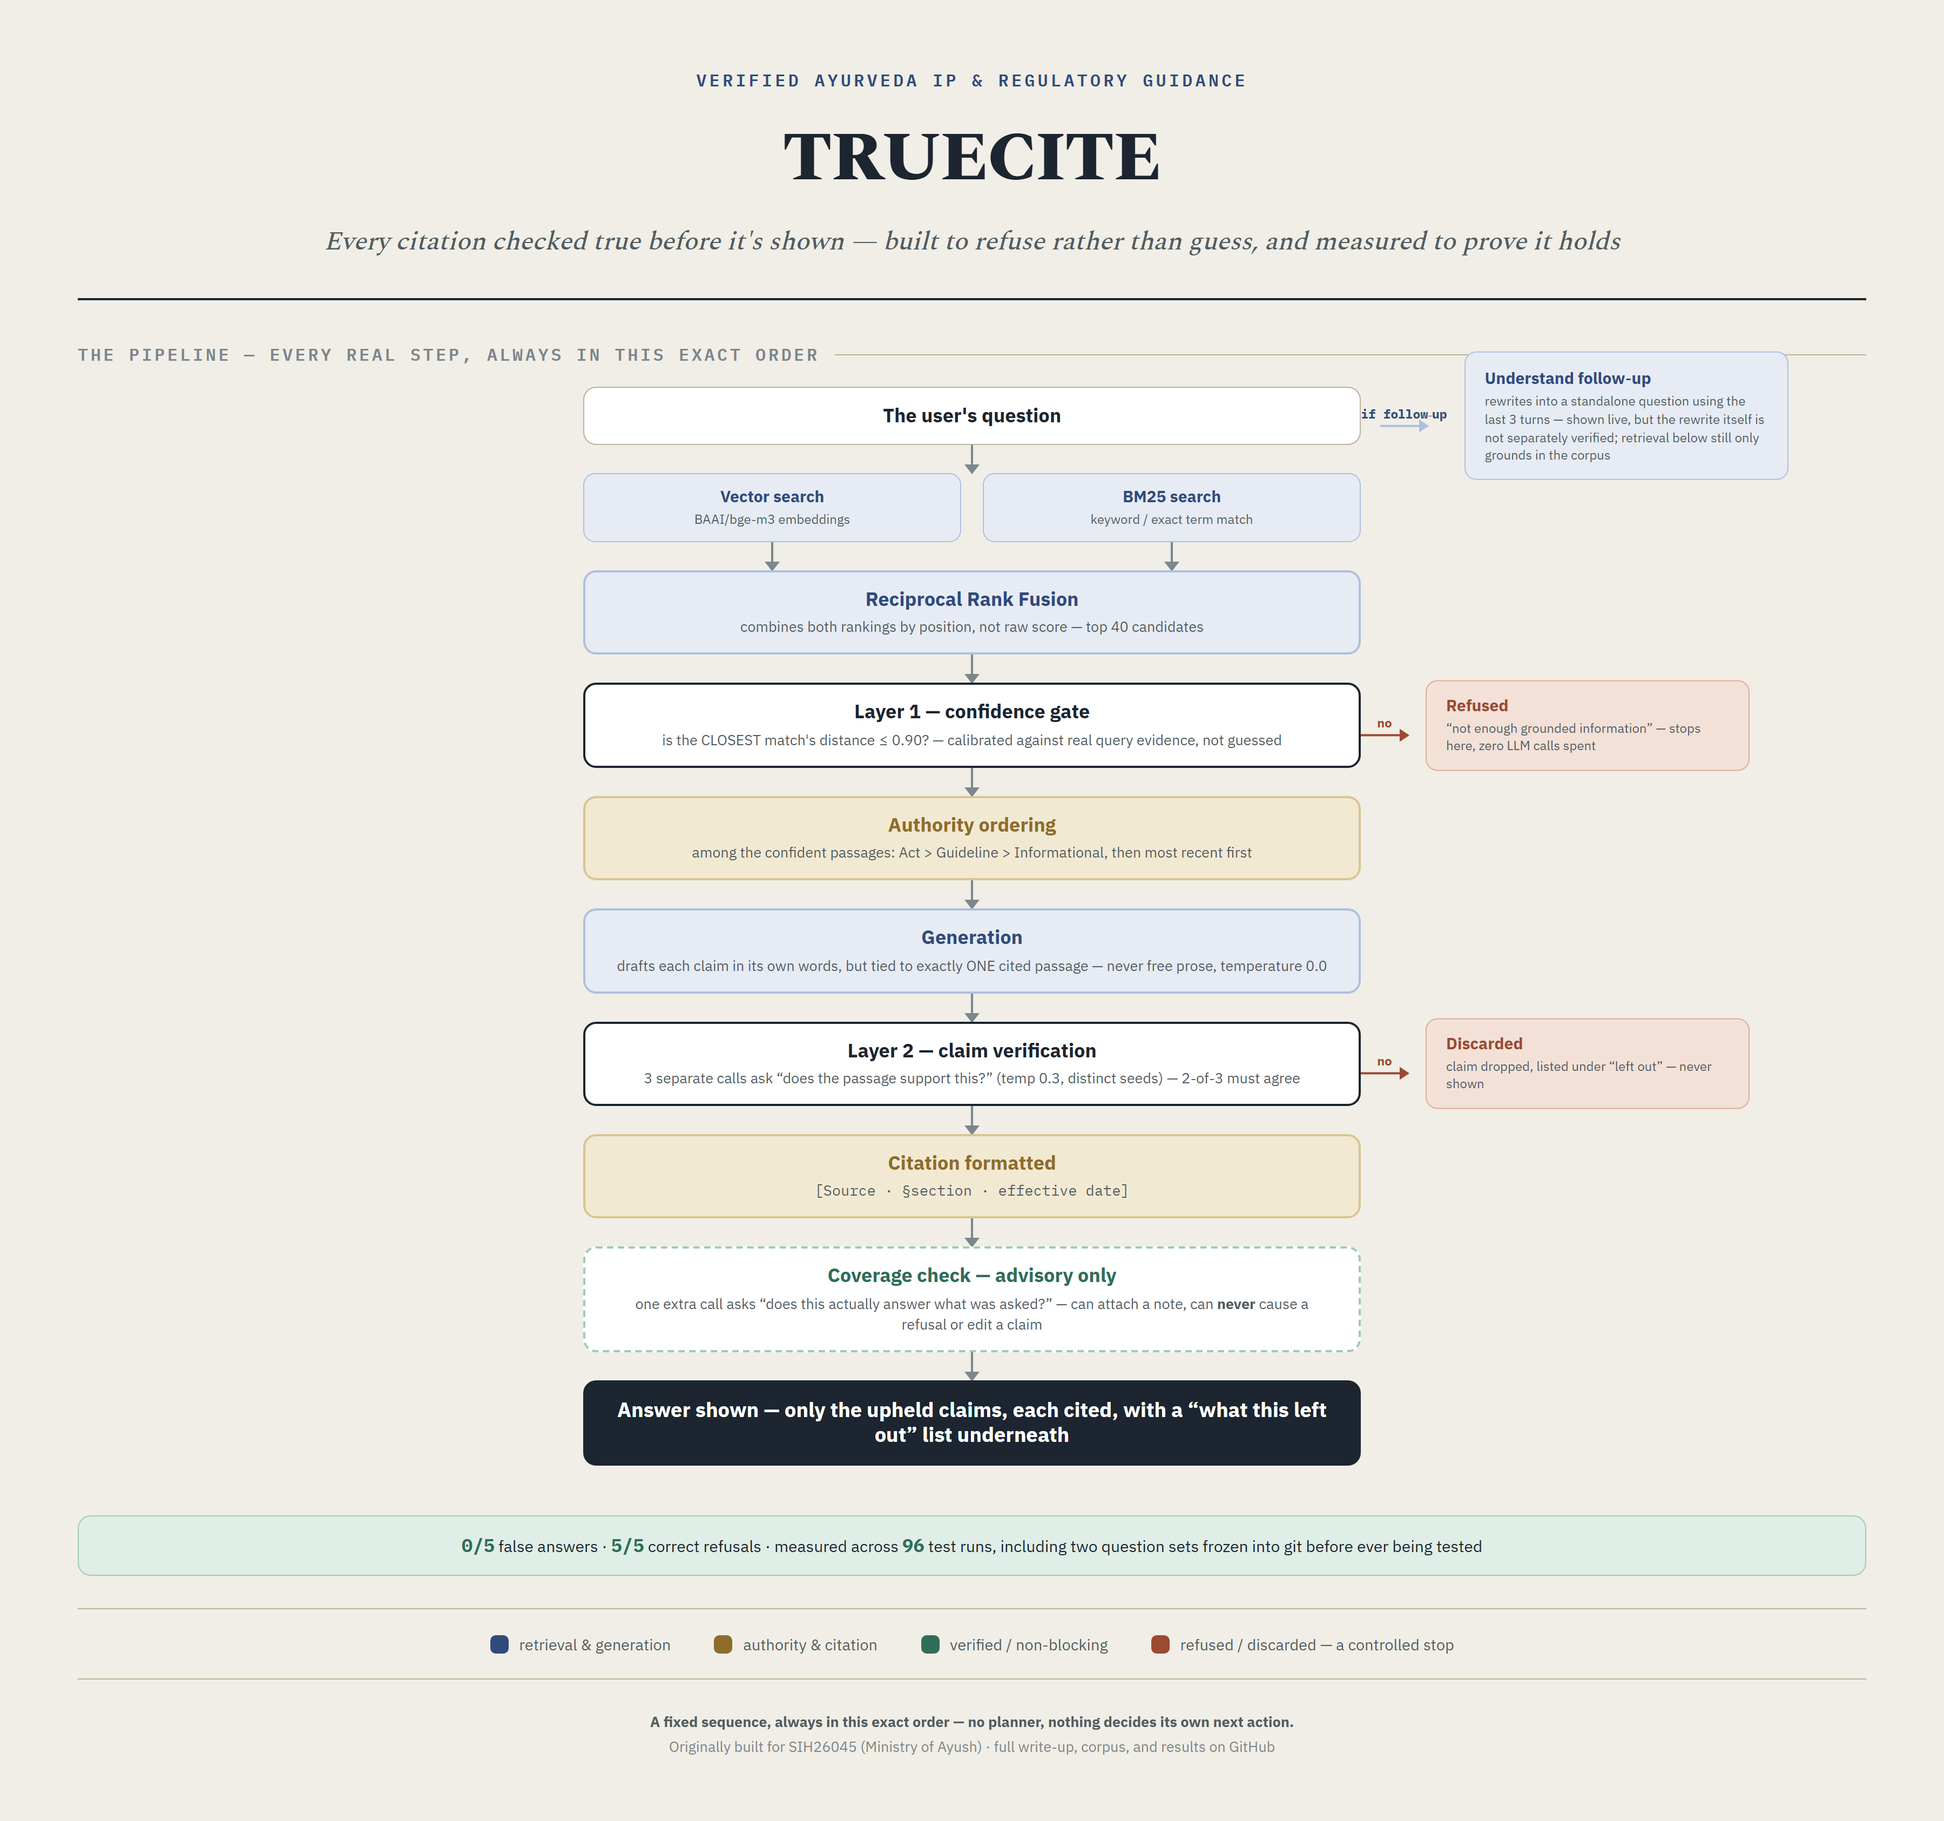
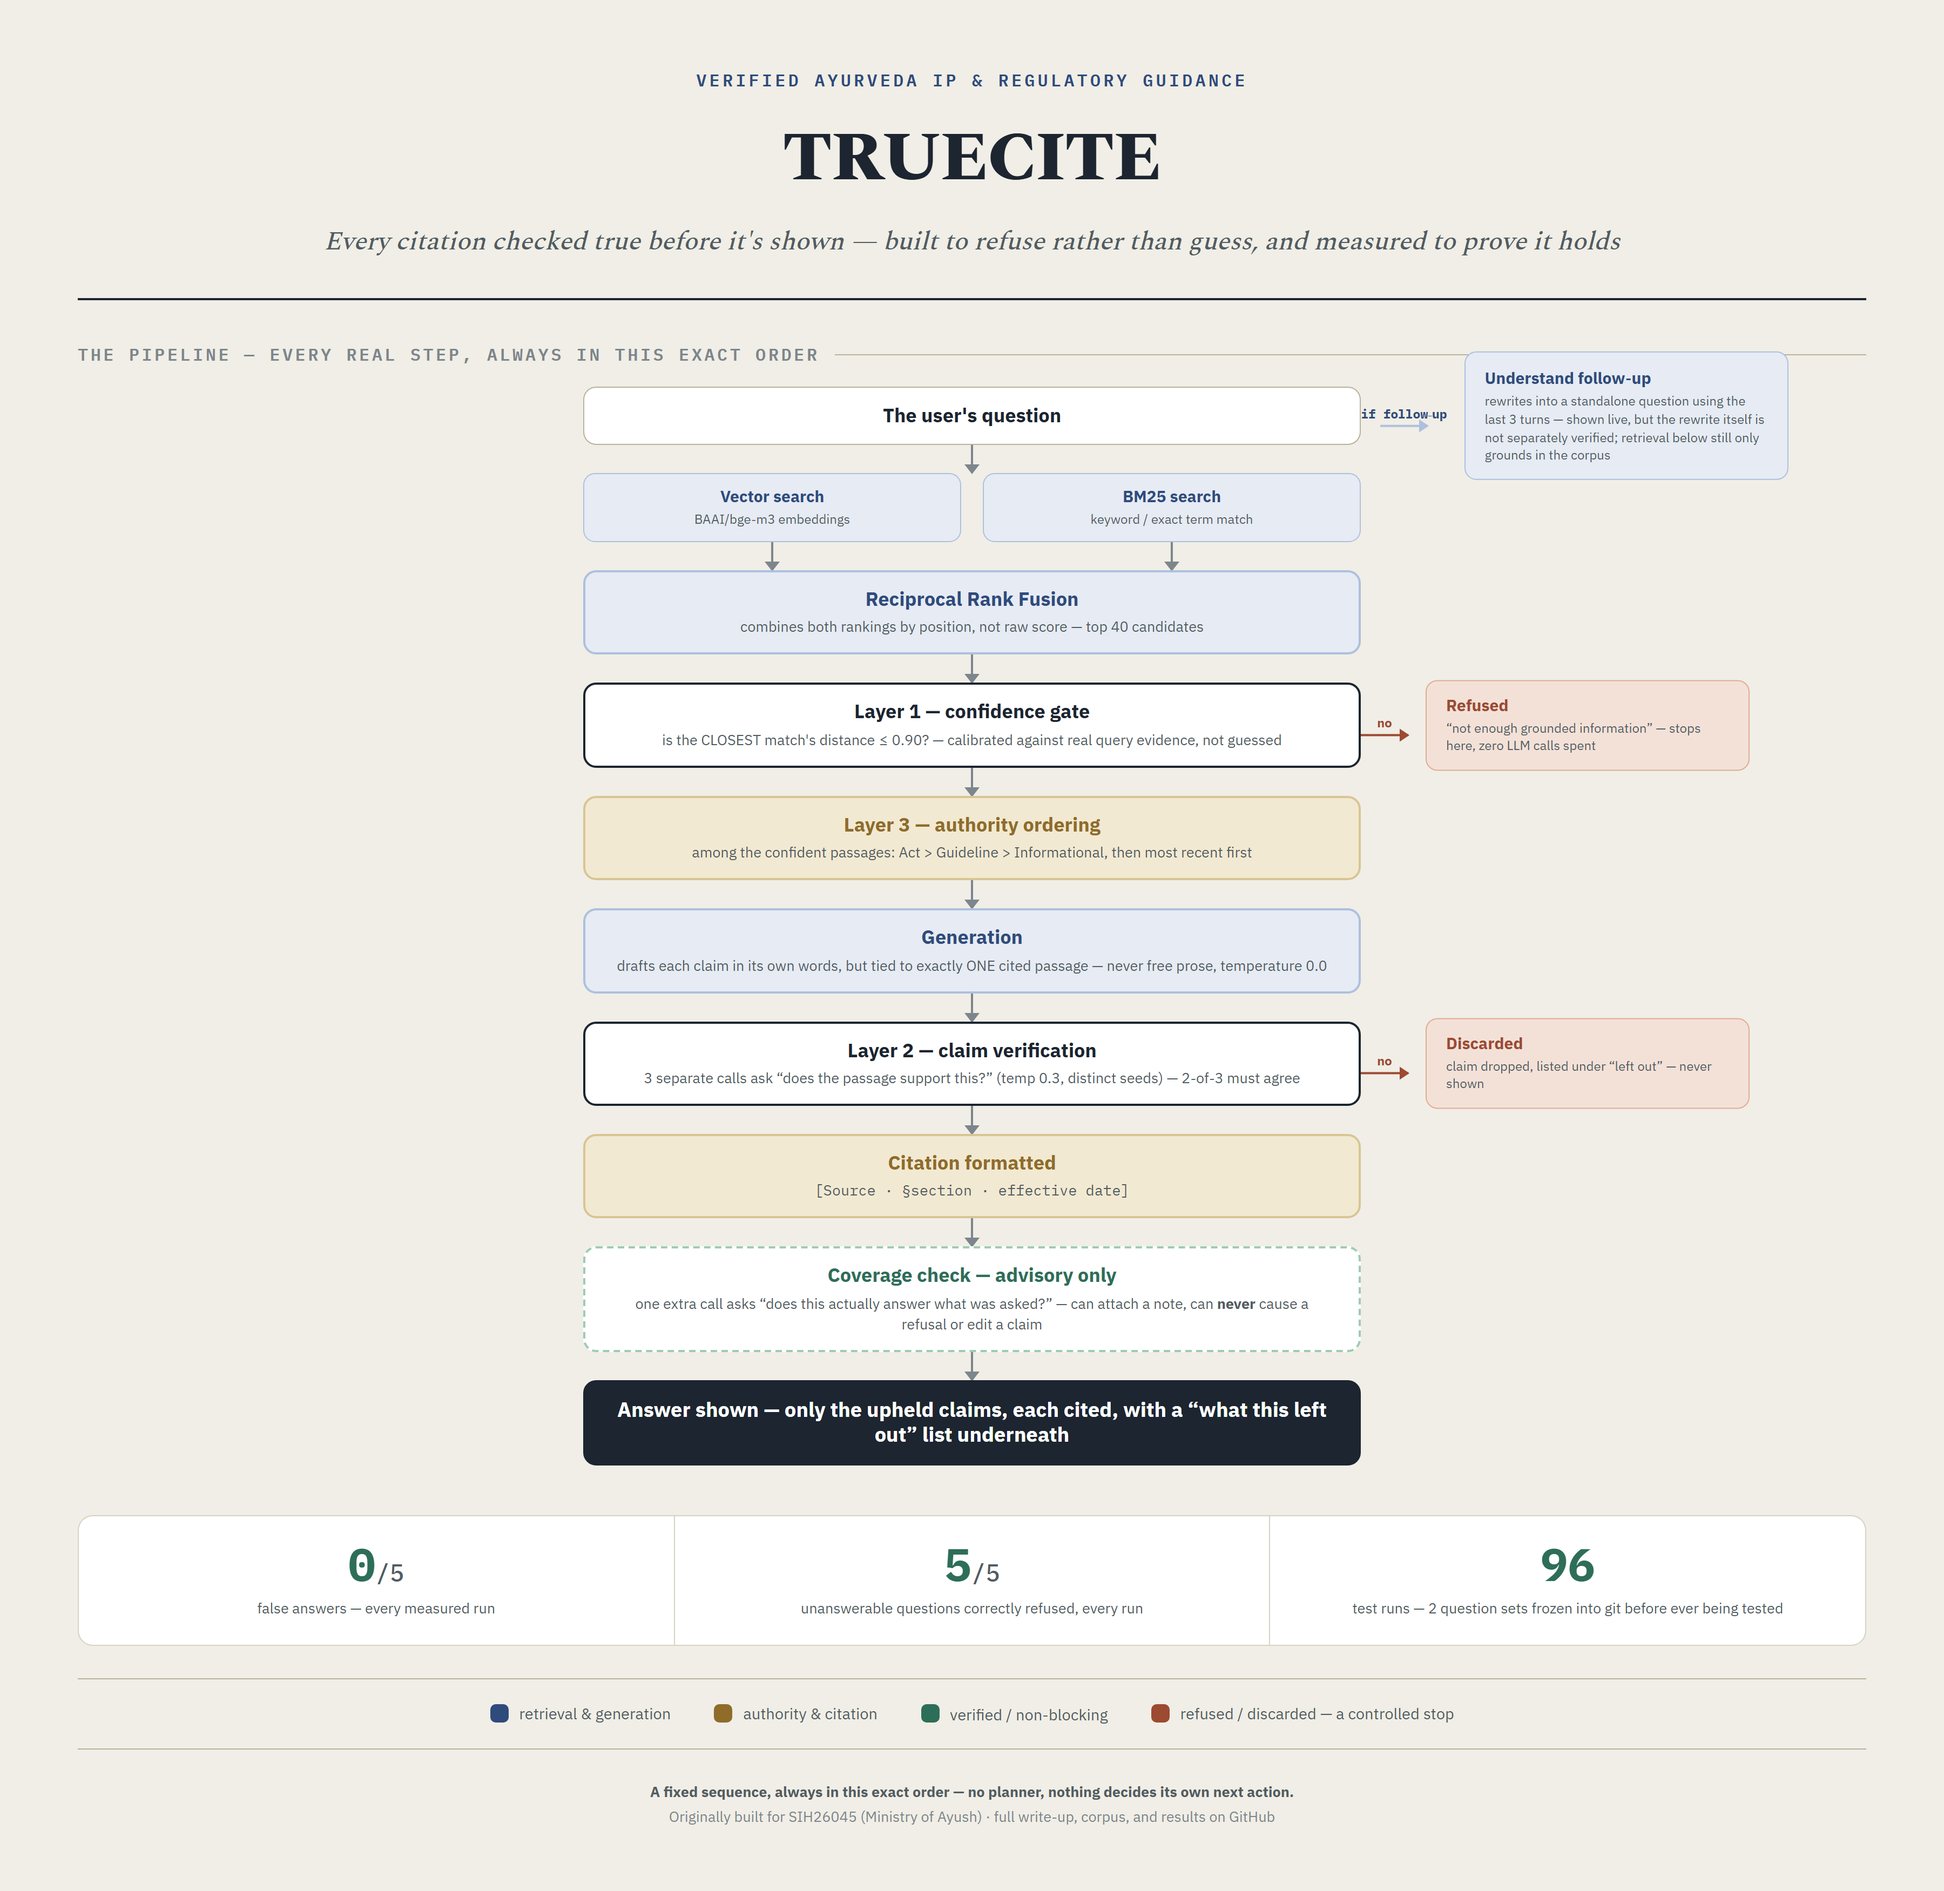
Merge the two posters into one; fix the missing Layer 3 label; add real app screenshots
You asked for one flowchart, not two -- merged the full step-by-step
detail from the comprehensive poster with the big stat-tile results
treatment from the LinkedIn-specific version, then retired the separate
LinkedIn file. One image, used everywhere.

Fixed a real labeling gap: the flowchart's "Authority ordering" box was
never marked "Layer 3," even though the running app's own UI (and the
README) both say "three-layer verification." Now reads Layer 1 / Layer 2
/ Layer 3 consistently across the diagram, the live app, and the docs.

Also fixed the sidebar wordmark rendering as two stacked lines ("True" /
"CITE") instead of one -- that layout was built for the old two-part
name (bold acronym + description underneath) and never worked for a
single compound word. Renders on one line now.

Added three real screenshots of the running app (landing page, live
verification stepper mid-flow, completed verified answer with citation)
via a scripted Playwright pass against the actual local server -- not
mocked or drawn, the genuine UI with a real Ollama-backed answer.
Placement (README vs. a separate post) still to be decided.

diff --git a/docs/assets/src/pipeline-poster.html b/docs/assets/src/pipeline-poster.html
@@ -145,9 +145,12 @@
   footer p{ font-size:13.5px; color:var(--ink-faint); margin:4px 0; }
   footer p b{ color:var(--ink-soft); }
 
-  .trust-line{ text-align:center; background:var(--sage-soft); border:1.5px solid var(--sage-line); border-radius:12px;
-               padding:16px 24px; margin:36px 0 30px; font-size:15px; color:var(--ink); }
-  .trust-line b{ font-family:'IBM Plex Mono',monospace; font-variant-numeric:tabular-nums; color:var(--sage); font-size:17px; }
+  .stats{ display:grid; grid-template-columns:repeat(3,1fr); gap:1px; background:var(--line); border:1.5px solid var(--line);
+          border-radius:14px; overflow:hidden; margin:36px 0 30px; }
+  .stat{ background:var(--panel); padding:24px 18px; text-align:center; }
+  .stat .n{ font-family:'IBM Plex Mono',monospace; font-variant-numeric:tabular-nums; font-weight:700; font-size:42px; color:var(--sage); line-height:1; }
+  .stat .n small{ font-size:22px; color:var(--ink-soft); font-weight:500; }
+  .stat .l{ font-size:13.5px; color:var(--ink-soft); margin-top:10px; line-height:1.4; }
 </style>
 </head>
 <body>
@@ -208,7 +211,7 @@
       <div class="connector"></div>
 
       <div class="fnode brass">
-        <div class="t">Authority ordering</div>
+        <div class="t">Layer 3 &mdash; authority ordering</div>
         <div class="s">among the confident passages: Act &gt; Guideline &gt; Informational, then most recent first</div>
       </div>
       <div class="connector"></div>
@@ -253,8 +256,10 @@
     </div>
   </section>
 
-  <div class="trust-line">
-    <b>0/5</b> false answers &middot; <b>5/5</b> correct refusals &middot; measured across <b>96</b> test runs, including two question sets frozen into git before ever being tested
+  <div class="stats">
+    <div class="stat"><div class="n">0<small>/5</small></div><div class="l">false answers &mdash; every measured run</div></div>
+    <div class="stat"><div class="n">5<small>/5</small></div><div class="l">unanswerable questions correctly refused, every run</div></div>
+    <div class="stat"><div class="n">96</div><div class="l">test runs &mdash; 2 question sets frozen into git before ever being tested</div></div>
   </div>
 
   <div class="legend">

diff --git a/web/styles.css b/web/styles.css
@@ -86,9 +86,15 @@ button { font: inherit; color: inherit; cursor: pointer; background: none; borde
 }
 .mark svg { width: 18px; height: 18px; stroke: var(--gold-400); stroke-linecap: round; stroke-linejoin: round; }
 .mark-check { stroke: var(--green); stroke-width: 2; }
-.brand-text { display: flex; flex-direction: column; line-height: 1.15; }
-.brand-text strong { font-family: var(--font-display); font-size: .98rem; font-weight: 600; }
-.brand-text span { font-size: .68rem; letter-spacing: .14em; text-transform: uppercase; color: var(--text-mute); }
+/* Single-line wordmark: "TrueCite" reads as one compound word, unlike the
+   old "IP-SAKTI" (acronym) / "Sahayak" (description) two-line lockup this
+   was originally built for — stacking it onto two lines split the word in
+   an ugly, unreadable way. Both halves now sit on one baseline; the weight
+   contrast (bold "True" / regular "Cite") is the only thing that survived
+   from the old two-tone treatment. */
+.brand-text { display: flex; flex-direction: row; align-items: baseline; line-height: 1.15; }
+.brand-text strong { font-family: var(--font-display); font-size: .98rem; font-weight: 700; }
+.brand-text span { font-family: var(--font-display); font-size: .98rem; font-weight: 500; color: var(--text); }
 
 .new-chat {
   display: flex; align-items: center; gap: .55rem;
